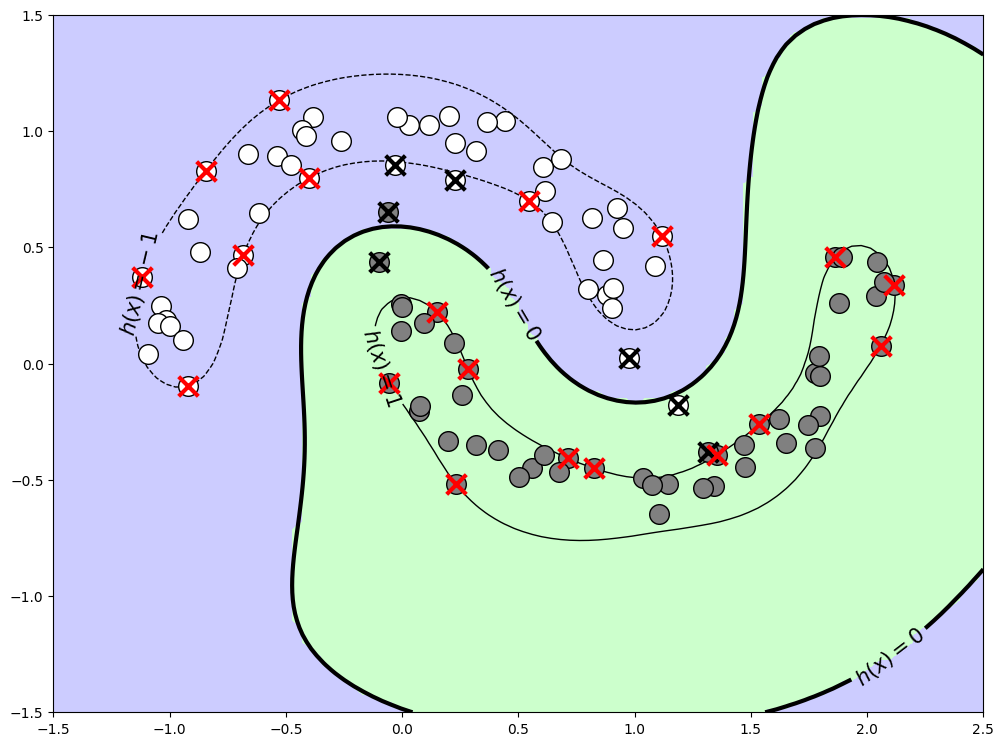
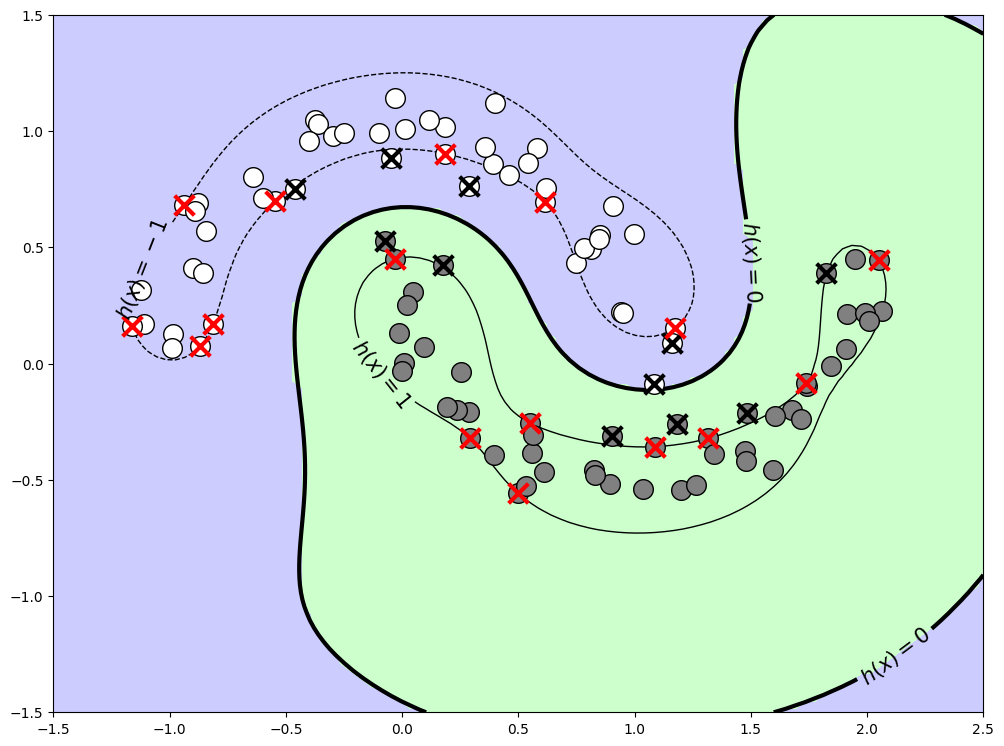
upd

diff --git a/svm/generate_images.py b/svm/generate_images.py
@@ -10,25 +10,18 @@ import svm_tools
 import plot_tools
 
 
-def train_classifier(build_clf,
-                     n_samples):
-    X, y = sklearn.datasets.make_moons(n_samples=n_samples, noise=0.1)
-
-    # Let us learn a linear C-SVC
-    classifier = build_clf()
-    classifier.fit(X, y)
-
-    return classifier, (X, y)
-
-
-def example001():
-    build_clf = lambda: sklearn.svm.SVC(C=1,
-                                        kernel='rbf', gamma=1/(2.0 * 0.4**2),
-                                        tol=1e-5,
-                                        decision_function_shape='ovo')
-    clf, (X, y) = train_classifier(build_clf, 100)
+def exampleCSVC_moon(n_samples, C, noise, sigma, filename):
+    X, y = sklearn.datasets.make_moons(n_samples=n_samples,
+                                       noise=noise)
+    gamma = 1./(2.0 * sigma**2)
+    clf = sklearn.svm.SVC(C=C,
+                          kernel='rbf', gamma=gamma,
+                          tol=1e-5,
+                          decision_function_shape='ovo')
+    clf.fit(X, y)
     sep, desc, info = svm_tools.svc_ovo_separators(clf,
-                                                   svm_tools.gaussian_kernel(clf.gamma), X)
+                                                   svm_tools.gaussian_kernel(gamma),
+                                                   X)
     fig = plt.figure(figsize=(12, 10))
 
     xlim = [-1.5, 2.5]
@@ -38,16 +31,19 @@ def example001():
     ax.set_xlim(xlim)
     ax.set_ylim(ylim)
     ax.set_aspect('equal')
-    plot_tools.plot_svc_samples(ax, desc, info, X[:100], y[:100],
+    plot_tools.plot_svc_samples(ax, desc, info, X, y,
                                 '0 vs 1', 'white', 'gray',
                                 'black', 'red')
     plot_tools.plot_svc_separation(ax, sep, info, '0 vs 1', xlim, ylim)
     plot_tools.plot_svc_partition(ax, clf,
                                   xlim, ylim,
                                   [(.8, .8, 1.), (.8, 1., .8)])
-    plt.savefig('csvc001.png', bbox_inches='tight')
+    plt.savefig(filename, bbox_inches='tight')
     plt.show()
 
 
+
 if __name__ == '__main__':
-    example001()
+    exampleCSVC_moon(100, 1, 0.1, 0.4, "csvc001.png")
+    exampleCSVC_moon(100, 1000, 0.25, 0.4, "csvc002.png")
+    exampleCSVC_moon(400, 0.1, 0.25, 0.4, "csvc003.png")
